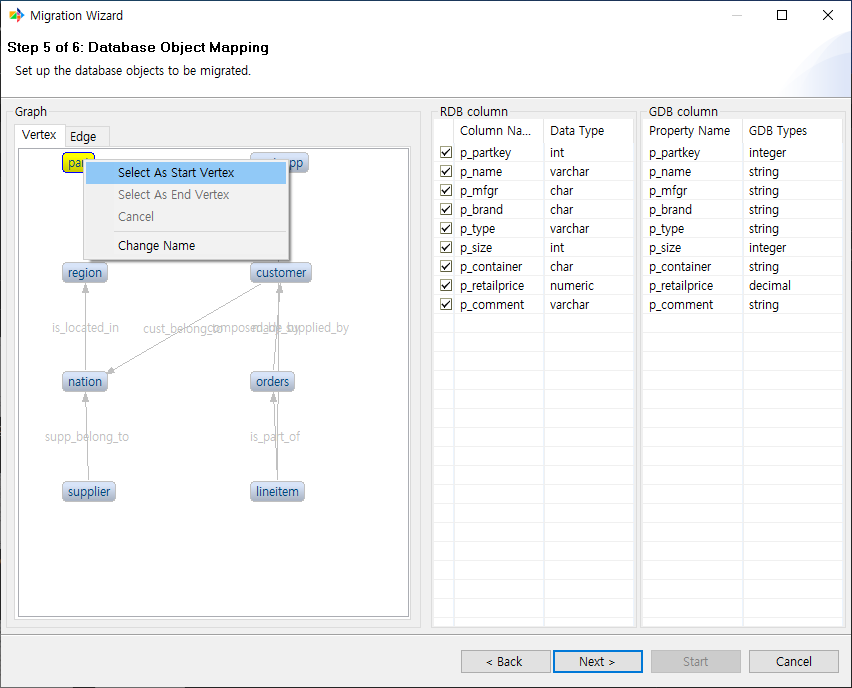
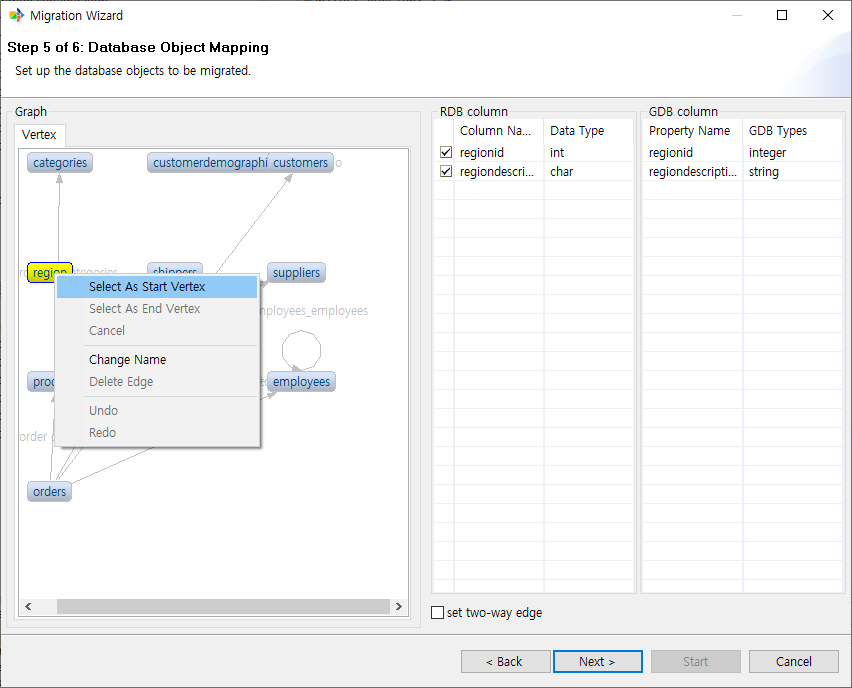
[GT-165] 4차년도 메뉴얼 수정 (#145)
* [GT-165] start.rst 페이지 내용 수정

- 추가된 기능에 대한 설명 추가
- 수정된 ui 사진을 반영

* [GT-165] graph mapping page에 대한 수정 사항 추가

* [GT-165] 메뉴얼 내용 수정

- cdc 관련 파일 삭제
- 내용 최신화
- 사진 최신화

* [GT-165] 메뉴얼 내용 추가

- xml type mapping 기능 관련 설정 추가

* [GT-165] CDC 관련 내용 삭제

- CDC 관련 내용 및 파일 삭제

diff --git a/MiT_Manual/ko/getting_start/R2G/4.object_mapping.rst b/MiT_Manual/ko/getting_start/R2G/4.object_mapping.rst
@@ -35,7 +35,7 @@ ex) categories 테이블을 선택한 경우
 그래프
 =======
 
-전 페이지에서 선택된 object들이 이관될 경우 graphDB에서 어떻게 보이게 될지 예시를 보여준다.
+전 페이지에서 선택된 object들이 이관될 경우 GraphDB에서 어떻게 보이게 될지 예시를 보여준다.
 
 ==================
 RDB, GDB 컬럼
@@ -53,7 +53,28 @@ GDB column의 특정 데이터 타입은 변경이 가능하다.
 
 .. image:: ./image/change_data_type.png
 
-현재는 자기 자신의 타입과, string으로의 타입 변경만을 지원한다.
+자기 자신의 타입과, string으로의 타입 변경만을 지원한다.
+
+========================
+오브젝트 이름 변경 기능
+========================
+
+vertex 또는 edge의 이름을 수정할 수 있다.
+
+방법은 아래와 같다
+
+1. 이름을 수정하고 싶은 오브젝트를 우클릭한 후 Change Name을 선택한다
+
+.. image:: ./image/change_name.png
+
+2. 원하는 이름을 입력하고 확인을 누른다
+
+.. image:: ./image/change_name_dialog.png
+
+3. 수정된 것을 확인한다.
+
+.. image:: ./image/change_name_complete.png
+
 
 ==============================
 사용자 지정 edge 추가 기능
@@ -71,14 +92,64 @@ GDB column의 특정 데이터 타입은 변경이 가능하다.
 
 .. image:: ./image/add_edge_step2.png
 
-3. Create New Edge dialog에서 edge 이름을 입력한다.
+3. Create New Edge dialog에서 edge 이름을 입력하고, 아래 테이블에서 FK를 연결할 컬럼을 선택한다. 이때 각 컬럼은 타입이 동일해야 한다.
 
 .. image:: ./image/add_edge_step3.png
 
-4. 아래 테이블에서 FK를 연결할 컬럼을 선택한다. 이때 각 컬럼은 타입이 동일해야 한다.
-
-.. image:: ./image/add_edge_step4.png
-
-5. 사용자 지정 edge가 생성된 것을 확인 할 수 있다.
+4. 그 후 확인을 누르면 사용자 지정 edge가 생성된 것을 확인 할 수 있다.
 
 .. image:: ./image/add_edge_step5.png
+
+=======================================
+edge 삭제 기능
+=======================================
+
+edge를 삭제할 수 있다.
+
+1. 삭제할 edge를 선택한 후 우클릭한다.
+
+.. image:: ./image/select_edge_to_delete.png
+
+2. [Delete Edge]를 선택하면 선택한 edge가 삭제된다.
+
+.. image:: ./image/delete_edge.png
+
+========================
+redo, undo 기능
+========================
+
+오브젝트 이름 변경, edge 추가 등의 기능을 수행한 뒤 취소하고 싶거나 다시 수행하고 싶은 경우 redo, undo 기능을 사용할 수 있다
+
+방법은 아래와 같다.
+
+---------
+undo
+---------
+
+1. 무언가 명령을 취소한 후 아무곳이나 선택 후 우클릭한다.
+
+.. image:: ./image/undo_enable.png
+
+2. undo 버튼을 선택하면 명령이 취소된다.
+
+.. image:: ./image/execute_undo.png
+
+---------
+redo
+---------
+
+1. undo를 실행한 후 아무곳이나 선택 후 우클릭한다.
+
+.. image:: ./image/redo_enable.png
+
+2. redo 버튼을 선택하면 가장 최근에 취소됐던 명령이 다시 실행된다.
+
+.. image:: ./image/execute_redo.png
+
+====================
+two-way edge
+====================
+
+기본적으로 이관되는 모든 edge는 단방향이다. 만약 gdb로 이관하였을 때 edge가 양방향으로 연결되어야 할 필요가 있다면 해당 옵션을 사용하면 된다.
+
+.. image:: ./image/two_way_edge.png

diff --git a/MiT_Manual/ko/start.rst b/MiT_Manual/ko/start.rst
@@ -18,9 +18,11 @@ MiT의 기능 대부분에 공통으로 적용되는 기능이다.
 이관 타입 선택
 ----------------------------
 
-.. image:: image/GDB_to_RDB.png
+.. image:: image/GDB_to_RDB2.png
 
 이관을 실행하기 위해 '새 마이그레이션' 버튼을 선택하면 표시되는 화면.
+
+RDB to RDB 또는 GDB to GDB 이관은 불가능하다.
 
 source type
 ================
@@ -29,9 +31,9 @@ source type
 
 target으로 이관할 데이터를 가져올 source를 선택하는 부분이다.
 
-현재 선택 가능한 DBMS는 CUBRID, Tibero, GraphDB(NEO4J, turbograph++)가 있다.
+현재 선택 가능한 DBMS는 CUBRID, Tibero, NEO4J, turbograph++가 있다.
 
-현재 GraphDB는 CUBRID로의 출력만 지원한다 (G2R)
+현재 GraphDB는 CUBRID와 Tibero에 대한 출력만 지원한다 (G2R)
 
 destination type
 ================
@@ -45,10 +47,15 @@ Online CUBRID database
 
 target을 CUBRID로 설정한다. 해당 옵션은 source가 GraphDB일 때만 지원한다.
 
-Online Graph database
+Online Tibero database
+-------------------------
+
+target을 Tibero로 설정한다. 해당 옵션은 source가 GraphDB일 때만 지원한다.
+
+Online Neo4j database
 ------------------------
 
-target을 GraphDB로 설정한다. 해당 옵션은 source가 CUBRID 또는 Tibero일 때만 사용 가능하다.
+target을 Neo4j로 설정한다. 해당 옵션은 source가 CUBRID 또는 Tibero일 때만 사용 가능하다.
 
 Local GRAPH dump files
 ------------------------
@@ -159,4 +166,4 @@ JDBC URL을 커스텀 할 수 있다. 만약 DB연결시 parameter가 필요할 
     getting_start/2.RDB_to_dump.rst
     getting_start/3.RDB_to_csv.rst
     getting_start/4.CLI.rst
-    getting_start/5.CDC.rst
+    getting_start/5.Type_Mapping.rst

diff --git a/MiT_Manual/ko/getting_start/R2G/1.select_src_tar.rst b/MiT_Manual/ko/getting_start/R2G/1.select_src_tar.rst
@@ -13,14 +13,16 @@
 
 이관할 원본 DB와 대상 DB를 선택하는 페이지이다.
 
+RDB(CUBRID, Tibero) to GDB(Neo4j, Turbograph), GDB(Neo4j, Turbograph) to RDB(CUBRID, Tibero) 총 2가지 타입의 이관이 지원된다
+
 ==========
 원본 유형
 ==========
 
-데이터를 추출할 DB를 선택한다. 현재 CUBRID만 지원하며 추후 GDB->RDB 이관 기능이 추가되면 GDB가 추가될 예정이다
+데이터를 추출할 DB를 선택한다. CUBRID, Tibero, Neo4j, Turbograph가 지원된다
 
 ==========
 대상 유형
 ==========
 
-데이터를 이관할 대상 DB를 선택한다. 현재 GDB(NEO4J)만 지원하며 추후 GDB->RDB 이관 기능이 추가되면 RDB(CUBIRD)가 추가될 예정이다
+데이터를 이관할 대상 DB를 선택한다. online으로 CUBRID, Tibero, Neo4j, Turbograph를 선택할 수 있고 추가로 RDB to csv를 지원한다.

diff --git a/MiT_Manual/ko/getting_start/R2G/3.select_tar_conn.rst b/MiT_Manual/ko/getting_start/R2G/3.select_tar_conn.rst
@@ -25,7 +25,7 @@ connection을 생성한다
 데이터베이스 종류
 ------------------
 
-현재 선택된 데이터베이스의 타입을 나타낸다. 현재 대상 DB는 NEO4J를 사용한다.
+현재 선택된 데이터베이스의 타입을 나타낸다.
 
 ---------------------
 JDBC 드라이버 선택
@@ -49,7 +49,7 @@ JDBC 드라이버 선택
 연결 포트
 ------------------------
 
-DB의 포트 번호를 입력한다. 기본값은 NEO4J의 기본 포트인 7687으로 되어있다.
+DB의 포트 번호를 입력한다. 기본값은 각 DB의 기본 JDBC 포트값으로 설정 되어있다
 
 ------------------------
 데이터베이스 이름

diff --git a/MiT_Manual/ko/getting_start/5.Type_Mapping.rst b/MiT_Manual/ko/getting_start/5.Type_Mapping.rst
@@ -1,0 +1,22 @@
+:meta-keywords: guide tool
+:meta-description: change data type mapping
+
+************************
+Type Mapping 변경
+************************
+
+이관 시 대상 DB에 이관되는 값의 데이터 타입을 바꾸고 싶을 때 사용하는 기능이다.
+
+메뉴 진입 방법은 아래와 같다.
+
+1. 설정 메뉴를 선택한다.
+
+.. image:: ./image/type_mapping/preference.png
+
+2. Migration 메뉴에서 원하는 이관 타입을 선택한다
+
+.. image:: ./image/type_mapping/select_type.png
+
+3. 원하는 데이터 타입 매핑를 선택하여 수정한다.
+
+.. image:: ./image/type_mapping/select_target_type.png

diff --git a/MiT_Manual/ko/getting_start/R2G/7.migration_report.rst b/MiT_Manual/ko/getting_start/R2G/7.migration_report.rst
@@ -15,6 +15,24 @@
 
 vertex와 edge의 추출 개수, 입력 개수, 실패한 개수, 진행도 등을 확인할 수 있다.
 
+===========
+상세 정보
+===========
+
+.. image:: ./image/detail_info.png
+
+vertex, edge의 이관에 대한 상세한 정보를 확인할 수 있다.
+
+.. /image:: ./image/detail_info.png
+
+- status: 이관 성공, 실패 여부를 알려준다.
+
+- type: 이관된 object의 vertex, edge, join table edge 여부를 표시한다.
+
+- name: object의 이름을 표시한다.
+
+- source db object: RDB의 어떤 object가 이관되면서 변경된 것인지 표시한다.
+
 =====
 로그
 =====

diff --git a/MiT_Manual/ko/getting_start/R2D/1.object_mapping.rst b/MiT_Manual/ko/getting_start/R2D/1.object_mapping.rst
@@ -24,13 +24,13 @@
 
 이관할 테이블을 선택한 후 다음 페이지로 진행한다.
 
-.. image:: R2D_image/dump_graph_sample.png
+.. image:: R2D_image/dump_mapping_page.png
 
 =======
 그래프
 =======
 
-전 페이지에서 선택된 object들이 GQL을 통해 이관될 경우 graphDB에서 어떻게 보이게 될지 예시를 보여준다.
+전 페이지에서 선택된 object들이 GQL을 통해 이관될 경우 GraphDB에서 어떻게 보이게 될지 예시를 보여준다.
 
 ==================
 RDB, GDB 컬럼

diff --git a/MiT_Manual/ko/getting_start/R2C/1.csv_object_mapping.rst b/MiT_Manual/ko/getting_start/R2C/1.csv_object_mapping.rst
@@ -31,7 +31,7 @@ Column List
 Graph
 ==========
 
-전 페이지에서 선택된 object들이 csv을 통해 이관될 경우 graphDB에서 어떻게 보이게 될지 예시를 보여준다.
+전 페이지에서 선택된 object들이 csv을 통해 이관될 경우 GraphDB에서 어떻게 보이게 될지 예시를 보여준다.
 
 ============================
 RDB Column, GDB Column

diff --git a/MiT_Manual/ko/getting_start/R2G/2.select_src_conn.rst b/MiT_Manual/ko/getting_start/R2G/2.select_src_conn.rst
@@ -24,7 +24,7 @@ connection을 생성한다
 데이터베이스 종류
 ------------------
 
-현재 선택된 데이터베이스의 타입을 나타낸다. 현재 원본 DB는 CUBRID가 유일하다.
+현재 선택된 데이터베이스의 타입을 나타낸다.
 
 ---------------------
 JDBC 드라이버 선택

diff --git a/MiT_Manual/ko/getting_start/1.GDB_to_RDB.rst b/MiT_Manual/ko/getting_start/1.GDB_to_RDB.rst
@@ -7,8 +7,6 @@ GDB to RDB 이관하기
 
 vertex, edge로 구성된 GDB의 데이터를 RDB의 table, relation 변환하여 이관하는 기능이다.
 
-현재는 CUBRID만 target으로 설정 가능하다. 
-
 .. toctree::
     :titlesonly:
 

diff --git a/MiT_Manual/ko/getting_start/G2R/4.g2r_report.rst b/MiT_Manual/ko/getting_start/G2R/4.g2r_report.rst
@@ -28,5 +28,3 @@ Detail
 .. image:: G2R_image/g2r_detail.png
 
 이관 결과를 좀 더 자세히 확인할 수 있다.
-
-이 외의 옵션은 다른 이관과 동일하거나 추후 삭제될 예정인 항목이다.
